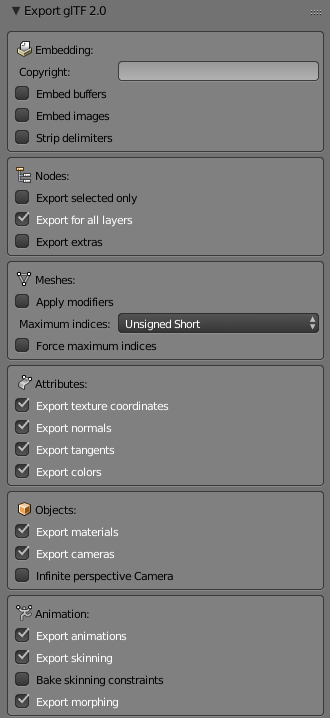
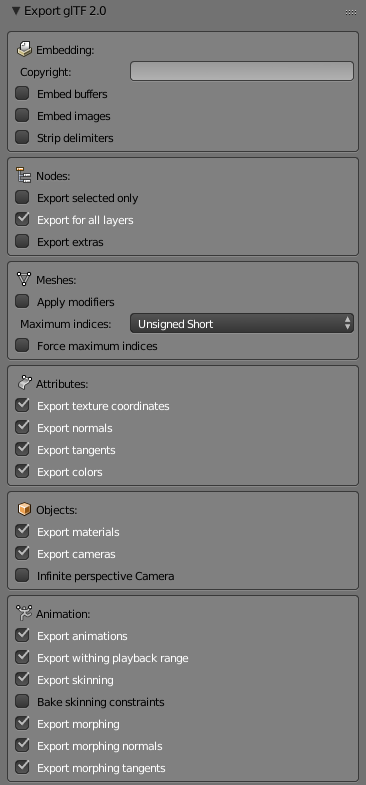
Updated documentation for latest exporter settings.

Changed region(s): [[0.0, 0.0, 1.0, 1.0], [0.3333, 0.0613, 0.9697, 0.1226]]

diff --git a/docs/user.md b/docs/user.md
@@ -139,6 +139,10 @@ By default, all perspective cameras are exported as finite perspective cameras. 
 
 By default, all animations are exported.
 
+#### Export within playback range
+
+By default, all animations are exported within the playback range. If disabled, all animation data is exported. This property is only visible, if export animations is enabled.
+
 #### Export current frame
 
 If the animations are not exported, this option gets visible. By default, the current frame is exported. If not, frame `0` is exported.
@@ -154,6 +158,14 @@ If export skinning is enabled, this option is visible. If inverse kinematics are
 #### Export morphing
 
 By default, morphing animation data is exported.
+
+#### Export morphing normals
+
+By default, morphing normal targets are exported. If disabled, tangents are not exported as well. Property is only visible, if export morphing is enabled.
+
+#### Export morphing tangents
+
+By default, morphing tangent targets are exported. If disabled, tangents are not exported. Property is only visible, if export morphing and morphing normals is enabled.
 
 ---
 
